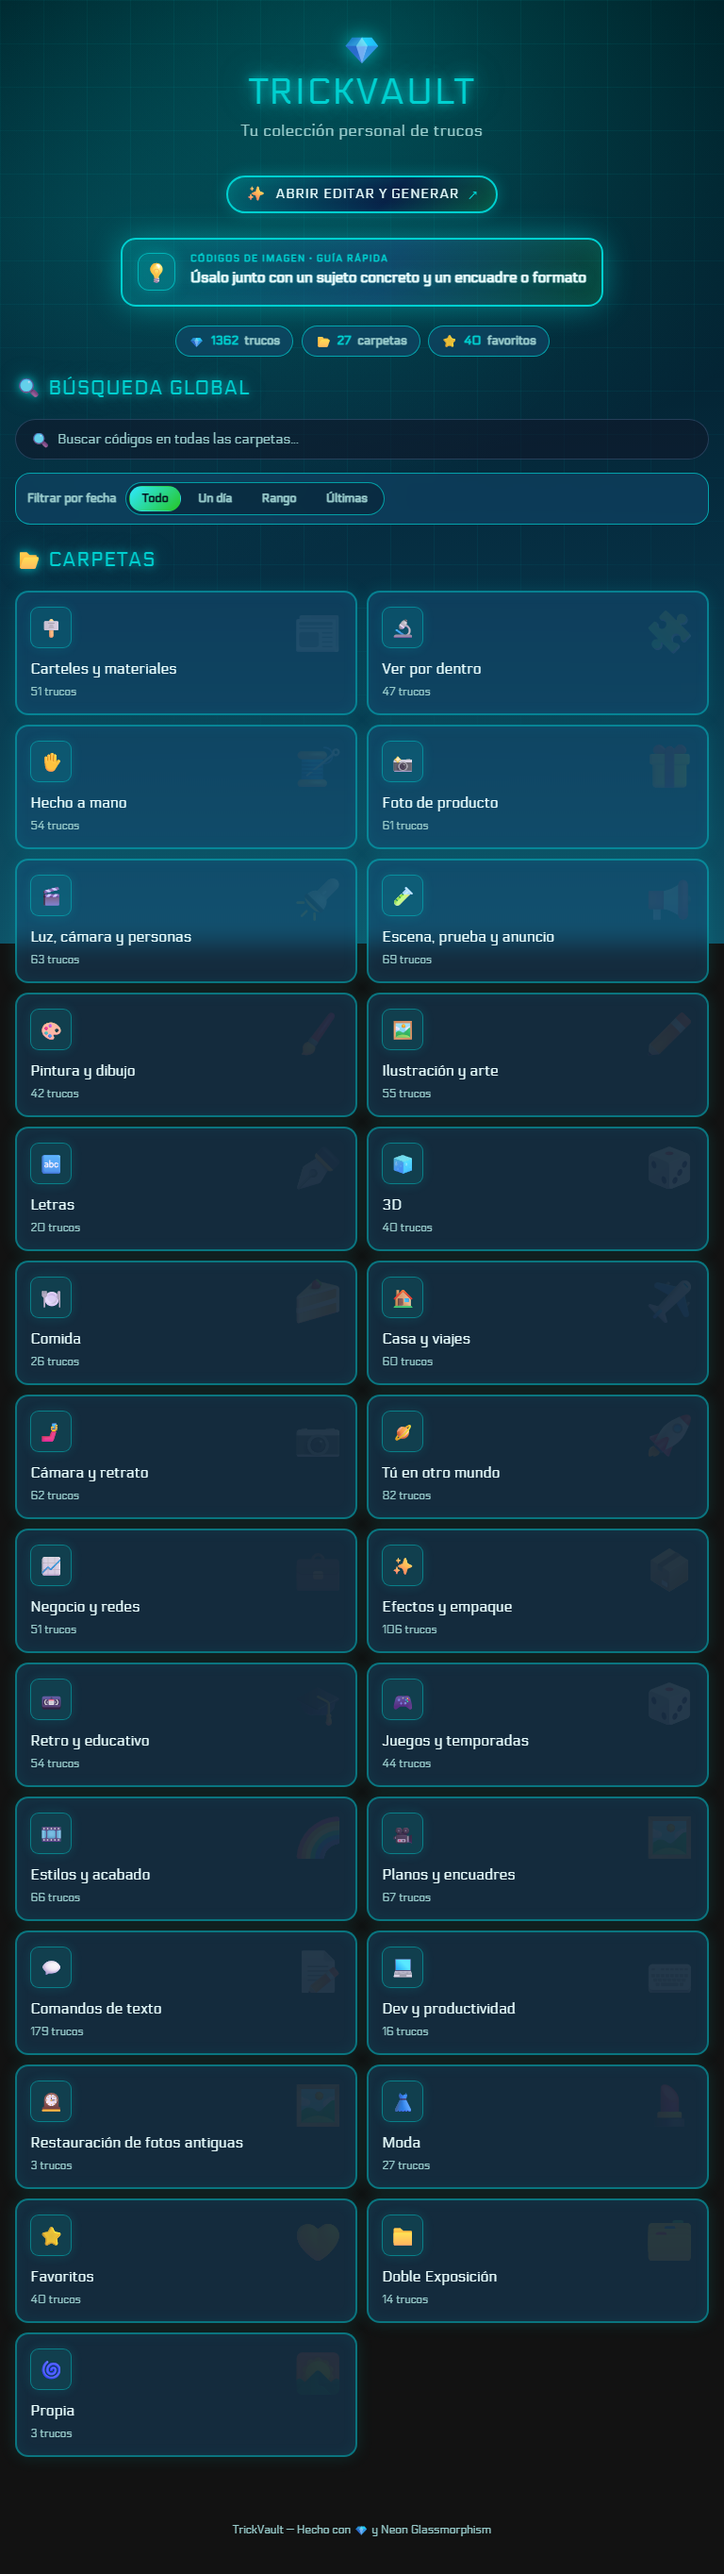
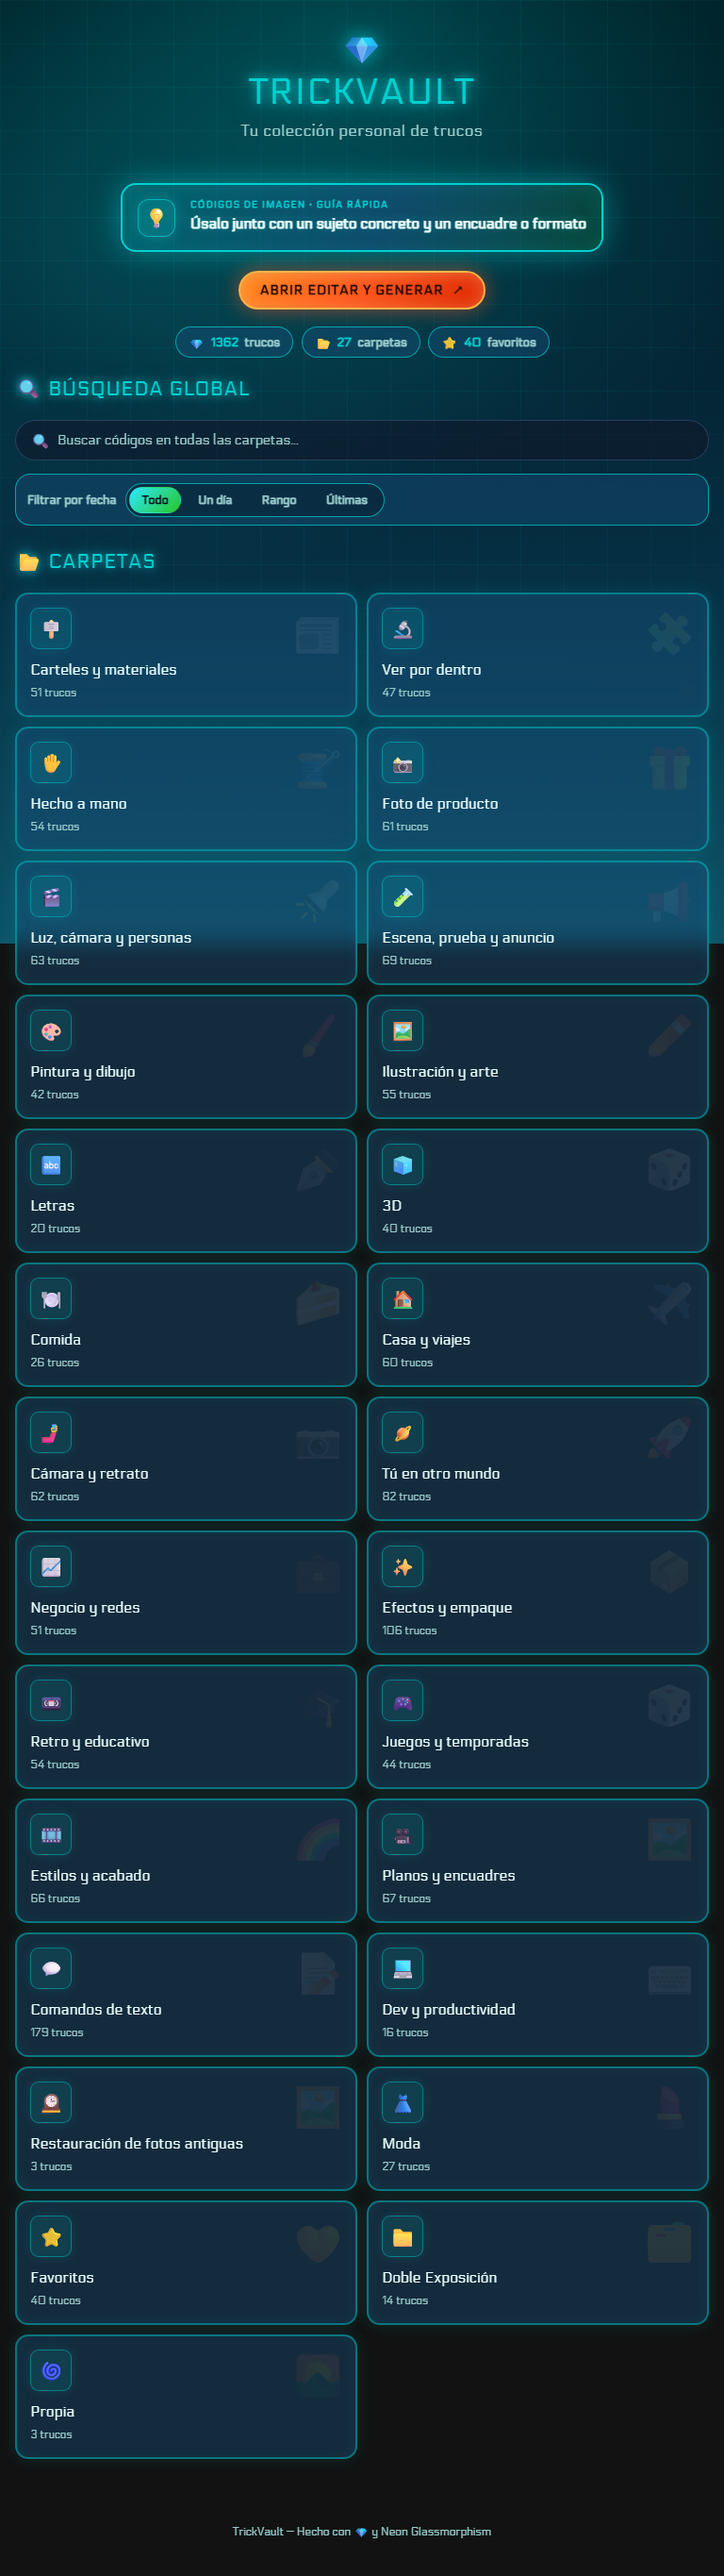
docs(trickvault): evidencias y bitacora corregidas tras la re-verificacion

diff --git a/tools/evidencias/2026-11-27-trickvault-letras3d/LEEME.md b/tools/evidencias/2026-11-27-trickvault-letras3d/LEEME.md
@@ -1,37 +1,59 @@
-# Evidencias — TrickVault · «Letras y 3D» partida en «Letras» y «3D» (2026-11-27)
+# Evidencias — TrickVault · «Letras y 3D» partida en «Letras» y «3D» + atajo a Editar y Generar (2026-11-27)
 
-Commit de la app: `5a76e279`. Comprobado en producción (`https://atnojs.es/apps/trickvault/`)
-después del despliegue por webhook.
+Producción: `https://atnojs.es/apps/trickvault/`. Commits: `5a76e279` (reparto + assets + botón),
+`3b4a7d8c` (botón debajo de la guía y en llamarada), `6529a6d1` (reparto 20/40 en la capa publicada
+y ejemplos con la ruta nueva). Todo comprobado sobre la versión **servida**, no solo sobre el repo.
 
 ## Qué prueba cada fichero
 
 | Fichero | Qué demuestra |
 |---|---|
 | `antes-portada-1440.png` | Portada de producción ANTES: 26 carpetas y «Letras y 3D · 60 trucos». |
-| `antes-letras3d-1440.png` | Vista de la carpeta vieja ANTES: 60 tarjetas mezcladas en una sola rejilla. |
+| `antes-letras3d-1440.png` | Carpeta vieja ANTES: 60 tarjetas mezcladas en una sola rejilla. |
 | `despues-portada-1440.png` | Portada DESPUÉS: 27 carpetas, «Letras · 20 trucos», «3D · 40 trucos» y botón nuevo. |
-| `despues-portada-768.png`, `despues-portada-390.png` | Los mismos cambios a 768 y 390 px, sin scroll horizontal. |
-| `despues-letras-1440.png`, `despues-letras-390.png` | Carpeta «Letras» con sus 20 tarjetas y sus imágenes. |
-| `despues-3d-1440.png` | Carpeta «3D» con sus 40 tarjetas. |
+| `despues-portada-768.png`, `despues-portada-390.png` | Lo mismo a 768 y 390 px, sin scroll horizontal. |
+| `despues-letras-1440.png`, `despues-letras-390.png` | «Letras» con sus 20 tarjetas y sus imágenes (incluye `/ascii` y `/typefill`). |
+| `despues-3d-1440.png` | «3D» con sus 40 tarjetas. |
 | `comparativa_trickvault_letras_3d.png` | Antes/después de la portada en una sola imagen, etiquetada. |
-| `comparativa_trickvault_boton.png` | Detalle de cabecera antes (sin atajo) y después (píldora cian). |
-| `foco-teclado-boton.png` | Anillo de foco del botón con Tab (3 px cian), no solo con `.focus()`. |
-| `portada-anchos-report.json` | Medidas: 1440/768/390, `scrollWidth == innerWidth`, caja del botón. |
-| `interaccion-report.json` | El botón abre `editar_generar` en pestaña nueva y TrickVault sigue abierta; «Volver a carpetas» restaura 27 carpetas. |
-| `migracion-report.json` | Simulación del navegador con las 60 tarjetas guardadas en `xl-letras3d`: reparto 20/41, carpeta vieja fuera, `xl-dev` intacta. |
+| `comparativa_trickvault_boton.png` | Cabecera antes (sin atajo) y después (píldora de llamarada bajo la guía). |
+| `detalle_boton_llama.png` | El botón a 1440 y a 390, ampliado. |
+| `foco-teclado-boton.png` | Anillo de foco real al llegar con **Tab** (`0 0 0 3px rgba(255,138,31,.75)`). |
+| `portada-anchos-report.json` | Medidas de portada: 1440/768/390, `scrollWidth == innerWidth`, caja del botón. |
+| `interaccion-report.json` | Clic real: abre `editar_generar` en pestaña nueva (título comprobado) y TrickVault sigue abierta; «Volver a carpetas» restaura 27. |
+| `migracion-report.json` | Navegador simulado con las **60** tarjetas guardadas en `xl-letras3d` y esquema 7: tras recargar, 20 / 40, carpeta vieja fuera, `xl-dev` en 16 y ninguna tarjeta huérfana. |
+| `carga-imagenes-produccion.json` | Con scroll completo, 20/20 y 40/40 miniaturas pintadas (`naturalWidth > 0`), 0 rotas. |
 
 ## Cómo se comprobó (reproducible)
 
-- Chrome real por DevTools Protocol (driver propio `cdp.mjs`, sin dependencias) contra la URL
-  pública, con perfil limpio y `?cb=` nuevo en cada petición para saltar la caché del CDN.
-- Imágenes: las 60 rutas `assets/xl-letras|xl-3d/*.jpg` responden `200` en producción.
-- Carga: consola solo con los dos avisos de Babel (`in-browser Babel transformer` y el aviso de
-  > 500 KB del script incrustado), que ya salían antes; red sin errores.
+- Chrome real por DevTools Protocol (driver propio `cdp.mjs`, sin Playwright) **contra la URL
+  pública**, perfil limpio y `?cb=` nuevo en cada petición.
+- `catalogo.json` servido: 26 carpetas, `orden` 20/40, sin la clave `xl-letras3d`, y las únicas
+  anulaciones de carpeta que quedan son las legítimas (`ig-dcek-561` → Moda, `ig-dcek-004` → Doble
+  exposición).
+- Las 60 rutas `assets/xl-letras|xl-3d/*.jpg` responden `200` en producción (ojo con las que ya
+  llevan `?v=`: el parámetro extra va con `&`).
+- Consola en producción: solo los dos avisos de Babel (aviso del transformador en navegador y nota
+  de > 500 KB), que también emite la versión anterior. Cero respuestas ≥ 400.
 - Caché: `x-hcdn-cache-status: DYNAMIC` (origen) y `Last-Modified` posterior al push.
+
+## Incidencias encontradas y corregidas en esta misma entrega
+
+- **Datos**: la publicación de las 20:12 (`a312621c`) traía dos anulaciones de carpeta
+  (`cap-cmd-108` = `/ascii`, `cap-cmd-110` = `/typefill`) que dejaban **18/42** en producción.
+  Corregido en `6529a6d1` (se quitaron las anulaciones y se regeneró el `orden` con los ids
+  reales). Si vuelve a publicarse desde un navegador con esas dos tarjetas en «3D», volvería a
+  pasar: se arregla arrastrándolas a «Letras» y publicando.
+- **Imágenes**: `/figurine` (`reel2-cmd-001`) y `/toyversion` (`turn-cmd-002`) conservaban rutas
+  `assets/xl-letras3d/…`. Ahora se remapean por código al cargar (0 tarjetas con la ruta vieja).
 
 ## Fuera de alcance / conocido
 
-- `ig-dcek-004` (/crosssection) desaparece al recargar por la deduplicación que ya existía; se
-  comprobó que ocurre igual con el código de producción anterior (`migracion-report.json`).
-- Las miniaturas usan `loading="lazy"`: en capturas de página completa algunas aún no han cargado,
-  por eso se verificaron las 60 por HTTP además de contar las cargadas en el DOM.
+- `ig-dcek-004` (`/crosssection`) desaparece al recargar por la migración de una sola vez de «Doble
+  exposición» (`migrateDobleReorganizada`), **no** por deduplicación. Se reprodujo también con el
+  `index.html` anterior (`backup/index.html` de la sesión de trabajo): es previo a este cambio. En
+  un navegador real esa migración ya está marcada como hecha.
+- Si `catalogo.json` no se puede cargar, las ~15 tarjetas publicadas que viven solo en la capa
+  (`nuevas`) desaparecen de la vista. Es el comportamiento de la app, no de este cambio.
+- Las miniaturas usan `loading="lazy"`: en capturas de página completa algunas aún no se han
+  pintado; por eso se comprobó la carga con scroll completo (`carga-imagenes-produccion.json`) y
+  las 60 rutas por HTTP.

diff --git a/tools/memoria/bitacora.md b/tools/memoria/bitacora.md
@@ -3141,14 +3141,16 @@ las cabeceras.
 - **Verificación:** verificador independiente, dos rondas: ronda 1 REWORK **91,8** (A6 8,6: numeración duplicada, comando `start` inválido en PowerShell 5.1, conteo del índice); ronda 2 REWORK **92,9** (A6 8,8, todo en esta bitácora). Corregido aquí.
 - **Commits:** `ca56f6e1` (app), `169f95ec` (skill + índice), `ca4f8189` (cache-bust) y el de las correcciones.
 
-
 ### 2026-11-27 (noche) — trickvault: «Letras y 3D» se parte en dos carpetas y atajo a Editar y Generar
-- **Encargo:** la carpeta «Letras y 3D» (60 trucos) mezclaba lettering con figuras 3D. Dividirla en «Letras» y «3D» dentro de la misma app y añadir en la cabecera un botón que lleve a `apps/editar_generar`.
-- **Qué hay:** carpetas nuevas `xl-letras` (20 trucos: graffiti, chalklettering, handlettering, letterpress, goldleaf, icingtext, sandwriting, skywriting, foodtype, ransomnote, chrometype, stencil, balloontype, 3dtypography, typefill, patternfill, logomosaic, ascii, embroideredpatch, woodcarved) y `xl-3d` (40: figuras, juguetes, cristal, islas, pedestales, calavera y versiones toy). Cada grupo con su carpeta de imágenes (`assets/xl-letras/`, `assets/xl-3d/`, 60 ficheros movidos con `git mv`) y su release de versión. Botón `✨ ABRIR EDITAR Y GENERAR ↗` en `.app-branding` (píldora cian, foco visible, pestaña nueva con `rel="noopener"`).
-- **Migración:** `FOLDERS_SCHEMA_VERSION` 7→8 para que los navegadores con lista guardada reciban las dos carpetas, `FOLDERS_REMOVED` retira `xl-letras3d` y `normalizeTrickCategory` reparte las tarjetas ya guardadas por código (`LETRAS3D_LETRAS`); un código desconocido cae en «3D».
-- **Capa publicada:** el `catalogo.json` del repo estaba en el de 2026-11-01 y el de producción traía ya 17 tarjetas nuevas (publish del 2026-11-27 19:37). Se partió del fichero real de producción para no perder datos al desplegar, y el rebase sobre `main` lo dejó con el reparto.
-- **Medido en Chrome (producción):** 27 carpetas; «Letras 20 trucos» y «3D 40 trucos»; 60/60 imágenes nuevas con HTTP 200; sin scroll horizontal a 1440/768/390; botón 289×40 (escritorio) y 251×38 (390), dentro de pantalla; foco de teclado con anillo cian de 3 px.
-- **Migración probada:** navegador simulado con 61 tarjetas en `xl-letras3d` y esquema 7 → tras recargar, 20 en «Letras», 41 en «3D» (40 + una tarjeta propia sin código), carpeta vieja fuera y `xl-dev` intacta (16).
-- **Conocido y no provocado aquí:** `ig-dcek-004` (/crosssection) desaparece al recargar por la deduplicación de tarjetas que ya existía; se comprobó que pasa igual con el código de producción anterior.
-- **Commits:** `5a76e279` (app + assets + evidencias).
+- **Encargo:** la carpeta «Letras y 3D» (60 trucos) mezclaba lettering con figuras 3D. Dividirla en «Letras» y «3D» dentro de la misma app y añadir al inicio un botón que lleve a `apps/editar_generar`.
+- **Qué hay:** carpetas nuevas `xl-letras` (20: 3dtypography, balloontype, graffiti, chalklettering, goldleaf, handlettering, letterpress, embroideredpatch, woodcarved, icingtext, sandwriting, skywriting, foodtype, ransomnote, chrometype, stencil, logomosaic, typefill, patternfill, ascii) y `xl-3d` (40: figuras, juguetes, cristal, islas, pedestales, calavera y versiones toy). Cada grupo con su carpeta de imágenes (`assets/xl-letras/`, `assets/xl-3d/`, 60 ficheros movidos con `git mv`) y su release de versión. Botón «ABRIR EDITAR Y GENERAR ↗» **debajo de la guía rápida** (`.app-link-wrap`), en rojo anaranjado de llama (`#ff5a1f`), foco visible y pestaña nueva con `rel="noopener"`.
+- **Migración:** `FOLDERS_SCHEMA_VERSION` 7→8 para que los navegadores con lista guardada reciban las dos carpetas, `FOLDERS_REMOVED` retira `xl-letras3d` y `normalizeTrickCategory` reparte por código las tarjetas ya guardadas (`LETRAS3D_LETRAS` / `LETRAS3D_TRESD`, comparando en minúsculas y con el código del id como respaldo).
+- **Capa publicada:** el `catalogo.json` del repo estaba en el de 2026-11-01 y producción traía ya 17 tarjetas nuevas. Se partió del fichero real de producción para no perder datos al desplegar.
+- **Incidente (20:12):** una publicación desde la app (`a312621c`) trajo dos anulaciones de carpeta —`cap-cmd-108` (/ascii) y `cap-cmd-110` (/typefill)— y producción pasó a **18/42**. El verificador independiente lo detectó y frenó la entrega (REWORK 77,6). Corregido en `6529a6d1`: se quitaron las anulaciones y se regeneró el `orden` de `xl-letras`/`xl-3d` con los ids reales (20/40). Riesgo residual: publicar desde un navegador con esas dos tarjetas en «3D» lo reintroduce.
+- **Imágenes:** `/figurine` (reel2-cmd-001) y `/toyversion` (turn-cmd-002) conservaban rutas `assets/xl-letras3d/…`; ahora se remapean por código al cargar (0 tarjetas con la ruta vieja).
+- **Medido en Chrome (producción):** 27 carpetas; «Letras 20 trucos» y «3D 40 trucos»; 20/20 y 40/40 miniaturas pintadas con scroll completo y 60/60 rutas HTTP 200; sin scroll horizontal a 1440/768/390; botón 294×41 (escritorio) y 253×38 (390), dentro de pantalla; foco con Tab en anillo de 3 px; contraste del texto 5,85:1.
+- **Migración probada:** navegador simulado con las 60 tarjetas en `xl-letras3d` y esquema 7 → tras recargar, 20 / 40, carpeta vieja fuera, `xl-dev` intacta (16) y ninguna tarjeta huérfana.
+- **Conocido y no provocado aquí:** `ig-dcek-004` (/crosssection) desaparece al recargar por la migración de una sola vez de «Doble exposición» (`migrateDobleReorganizada`), **no** por deduplicación; se reprodujo también con el `index.html` anterior. Y si `catalogo.json` no carga, las ~15 tarjetas que solo viven en la capa publicada no se ven (comportamiento previo de la app).
+- **Commits:** `5a76e279` (app + assets + evidencias), `3b4a7d8c` (botón debajo de la guía y en llamarada), `6529a6d1` (reparto 20/40 en la capa publicada y rutas de imagen).
+- **Verificación:** verificador independiente; ronda 1 REWORK 77,6 (por el 18/42 y por evidencias inexactas); corregido y re-verificado.
 - **Evidencias:** `tools/evidencias/2026-11-27-trickvault-letras3d/`.
